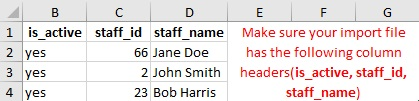
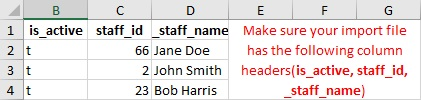
added new import-template reminder image with updated _staff_name header + t values in in_active column. Also updated the accepted column names for the import to align with _staff_name(leading underscore)

diff --git a/recoverycafe_timecard/timecard_admin/utils/import_volunteers.py b/recoverycafe_timecard/timecard_admin/utils/import_volunteers.py
@@ -1,6 +1,6 @@
 from .odsreader import ODSReader
 
-KEYS = ('is_active', 'staff_id', 'staff_name')
+KEYS = ('is_active', 'staff_id', '_staff_name')
 
 def has_keys(row):
     return all([k in row for k in KEYS])
